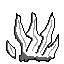
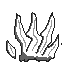
contour noir

diff --git a/src/GUI/Images.java b/src/GUI/Images.java
@@ -66,7 +66,7 @@ public class Images {
         for (int x = 0; x < 64; x++) {
             for (int y = 0; y < 64; y++) {
                 Color tmp = new Color(model.getRGB(x, y));
-                if ( tmp.getRed() == 1) {
+                if ( tmp.getRed() == 30) {
                      img.setRGB(x,y,Color.BLACK.getRGB());
                 } else if (tmp.getRed() == 100) {//c1
                     img.setRGB(x, y, c1.getRGB());

diff --git a/src/moutonsimulator/Jeu/Case.java b/src/moutonsimulator/Jeu/Case.java
@@ -29,7 +29,7 @@ public class Case implements Comparable {
         this.animal = null;
         this.plante = null;
         this.container = cont;
-        this.engrais = 5;
+        this.engrais = (int)(Math.random()*2);
         this.sol = sol;
         this.traversable = true;
         this.graines = new HashSet<>();

diff --git a/src/moutonsimulator/Jeu/ConfigInitial.java b/src/moutonsimulator/Jeu/ConfigInitial.java
@@ -7,7 +7,7 @@ public class ConfigInitial {
     public int nbMouton = 150;
     public int nbLoup = 100 ;
     private int probaPlante = 0;
-    public int nbFamillePlante = 3;
+    public int nbFamillePlante = 10;
     private int eau = 400;
 
     public int getWidth() {
